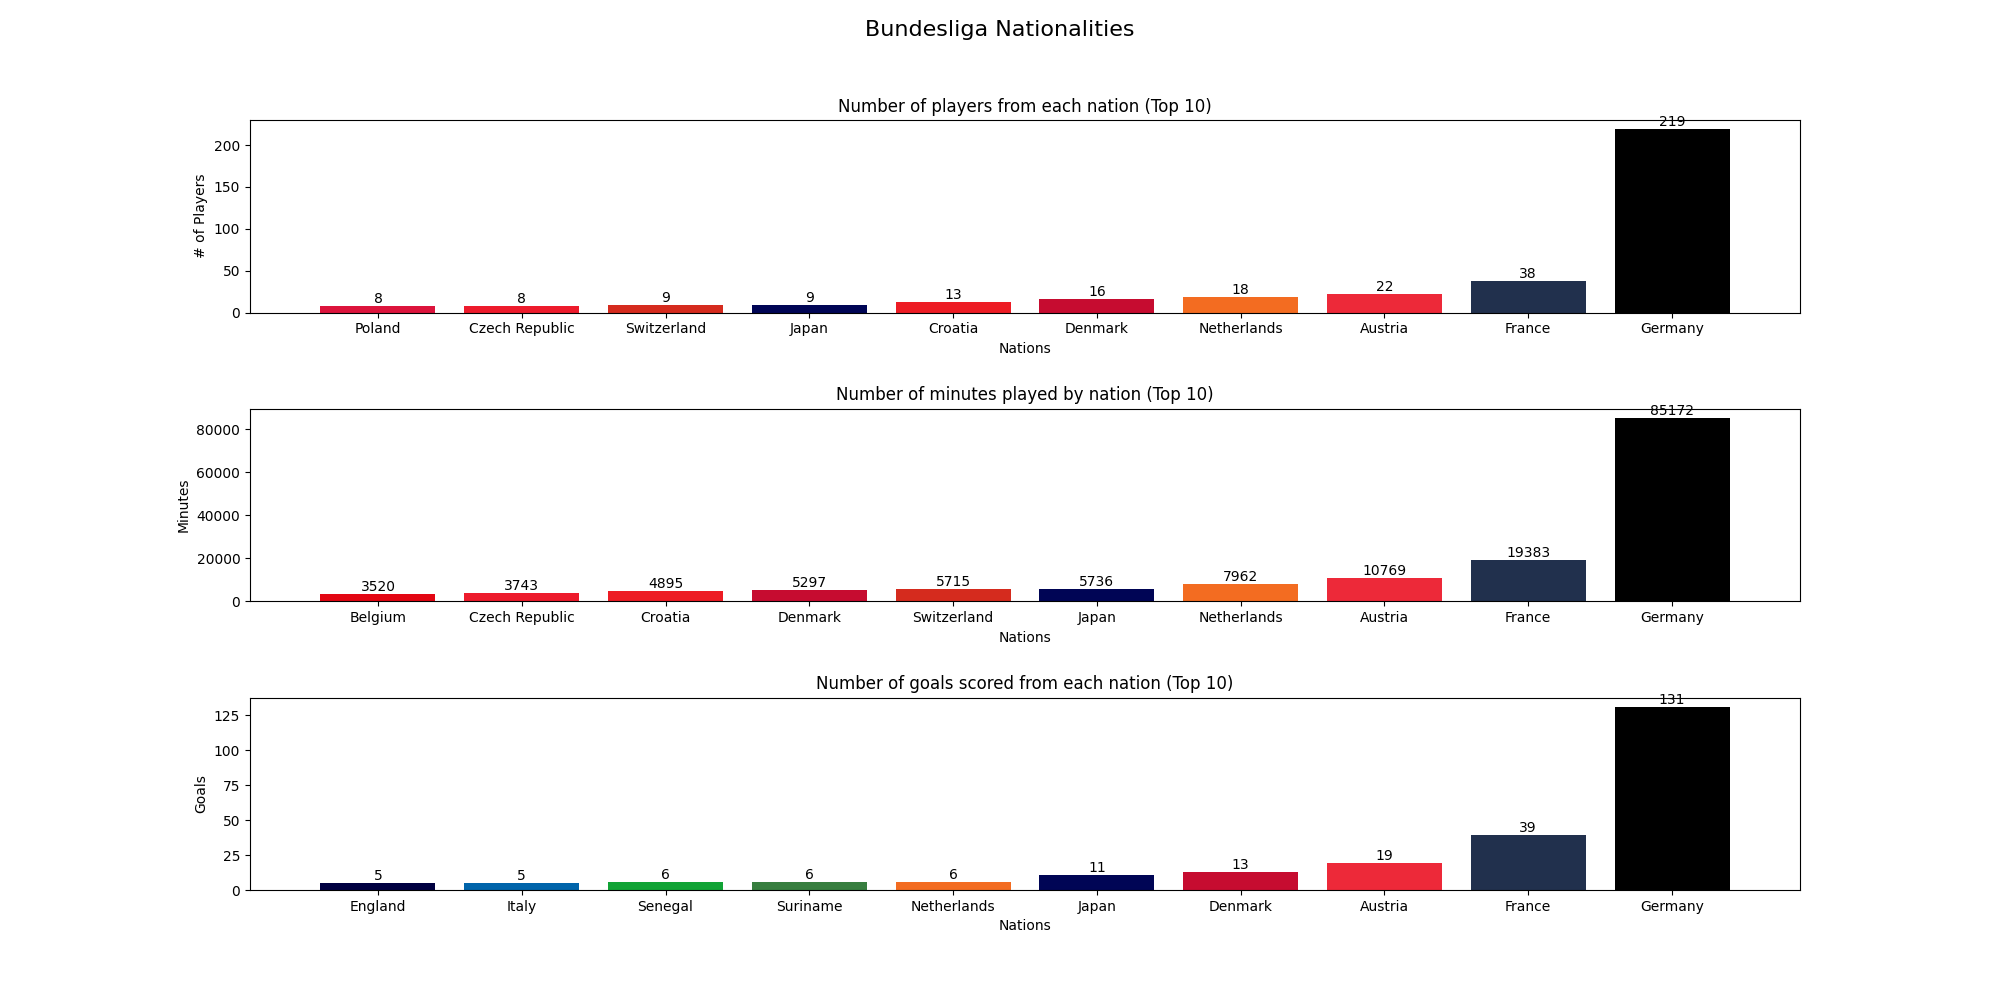
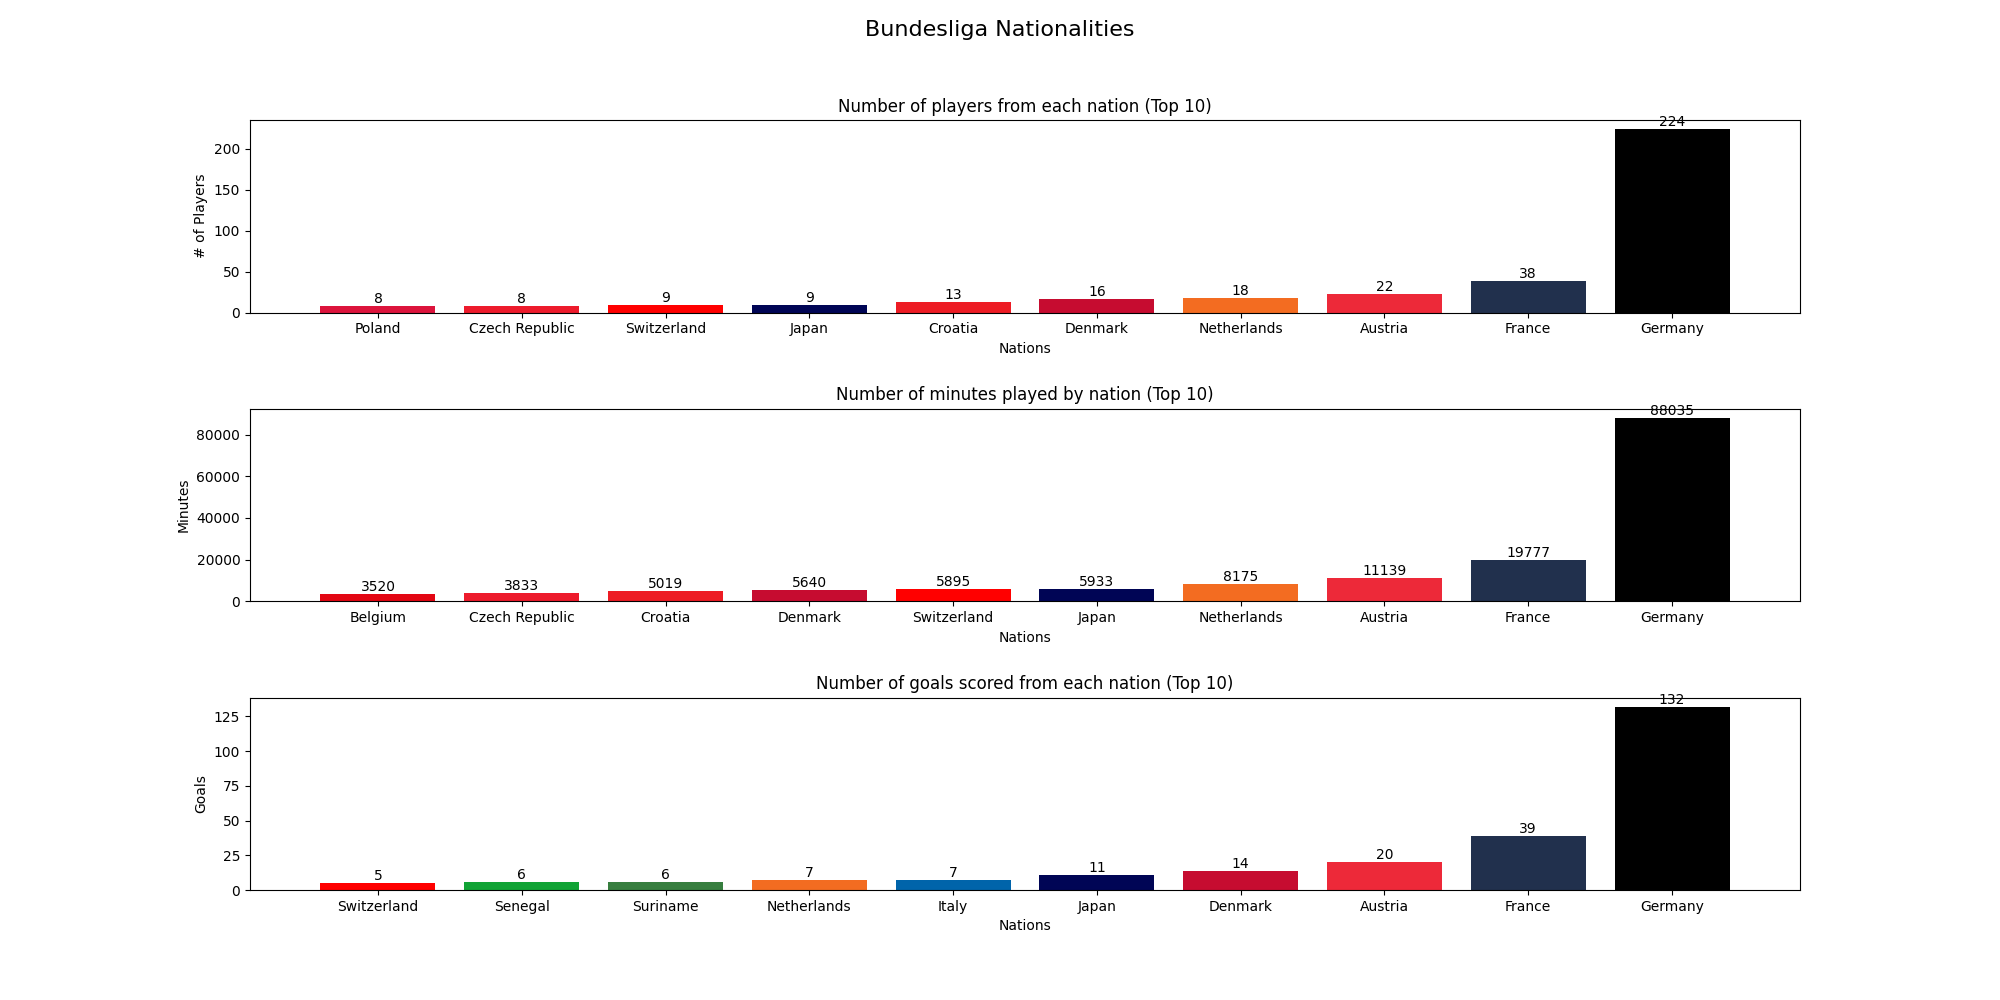
Added Switzerland

diff --git a/nationalities.py b/nationalities.py
@@ -81,7 +81,8 @@ def team_colours(col):
         "Bosnia": "#002F6C",
         "Ukraine": "#FFD700",
         "Cameroon": "#479A50",
-        "Turkey": "#E30A17"}
+        "Turkey": "#E30A17",
+        "Switzerland": "#FF0000"}
 
     clr = []
     for team in col:
@@ -123,7 +124,8 @@ def dict_conversion(country):
                 'ua UKR': 'Ukraine',
                 'gh GHA': 'Ghana',
                 'ba BIH': 'Bosnia',
-                'cm CMR': 'Cameroon'}
+                'cm CMR': 'Cameroon',
+                'ch SUI': 'Switzerland'}
     return countries.get(country)
 
 
